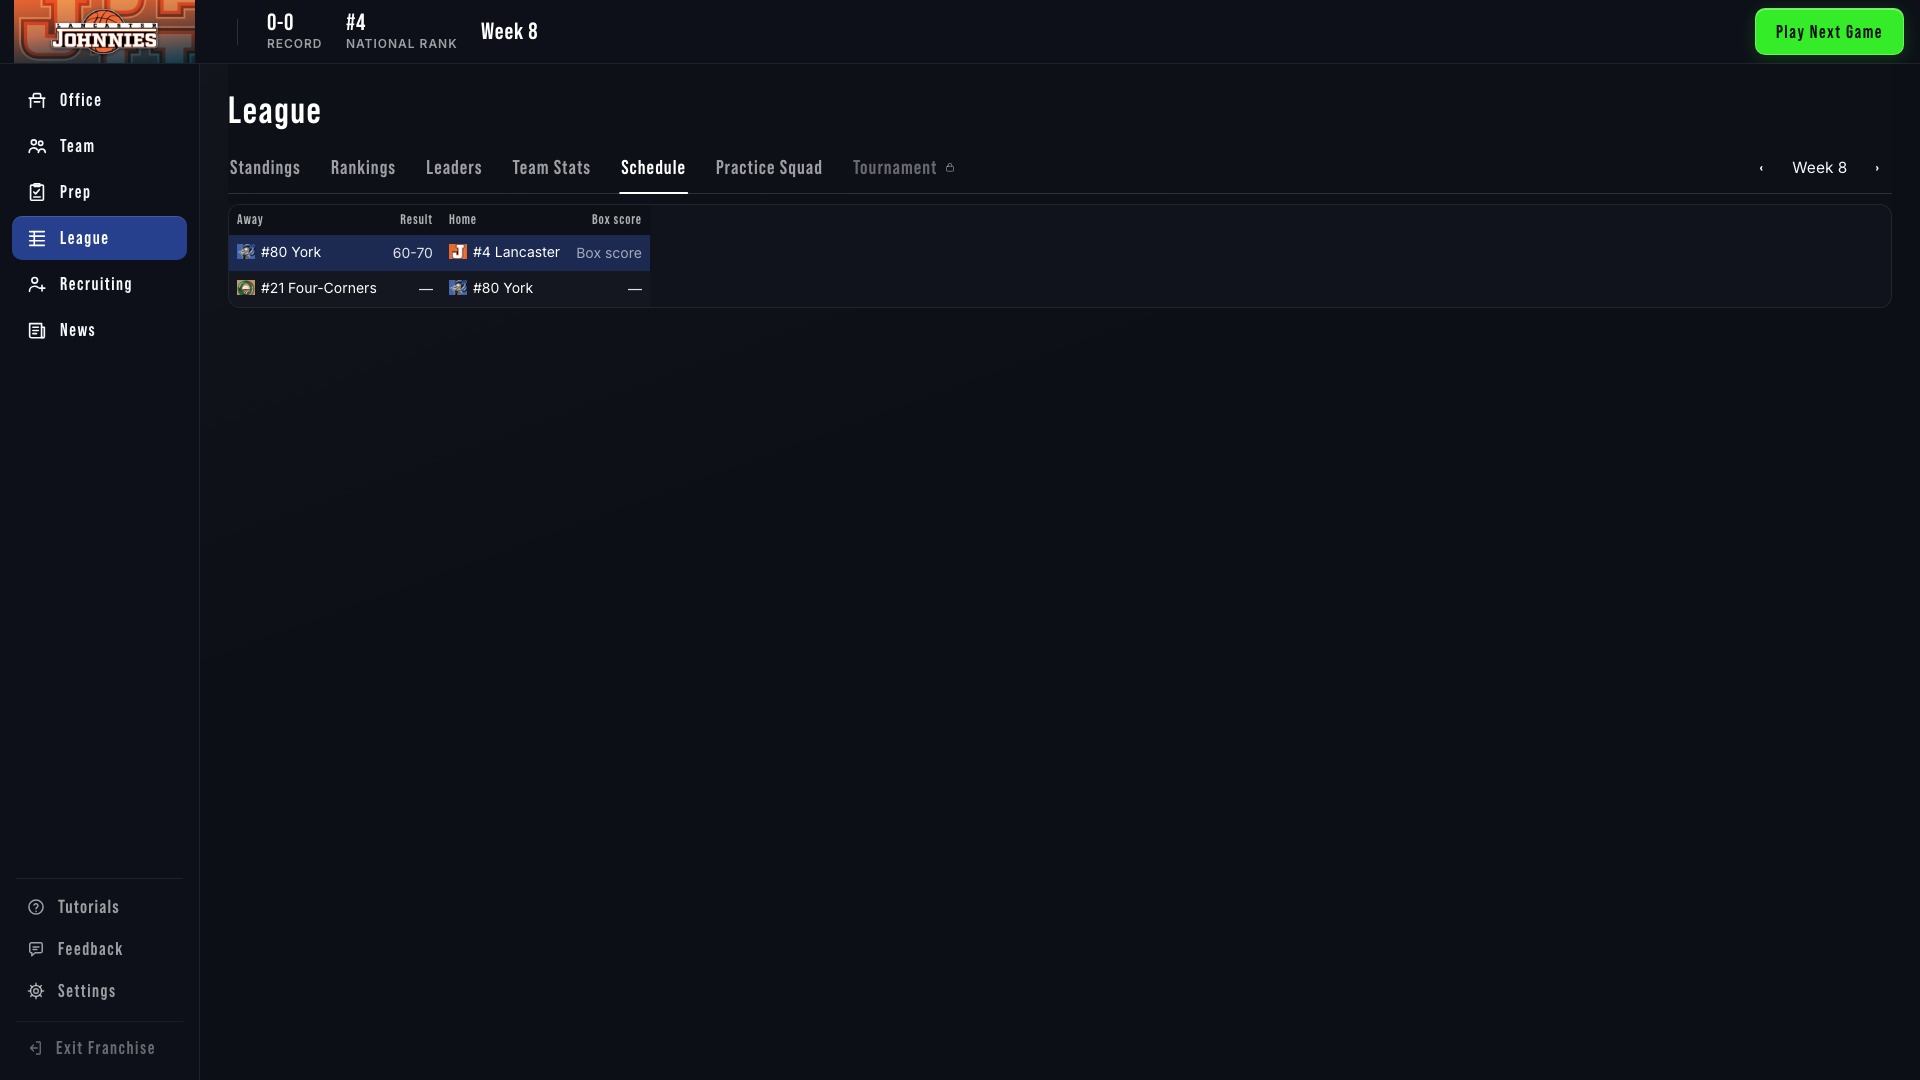
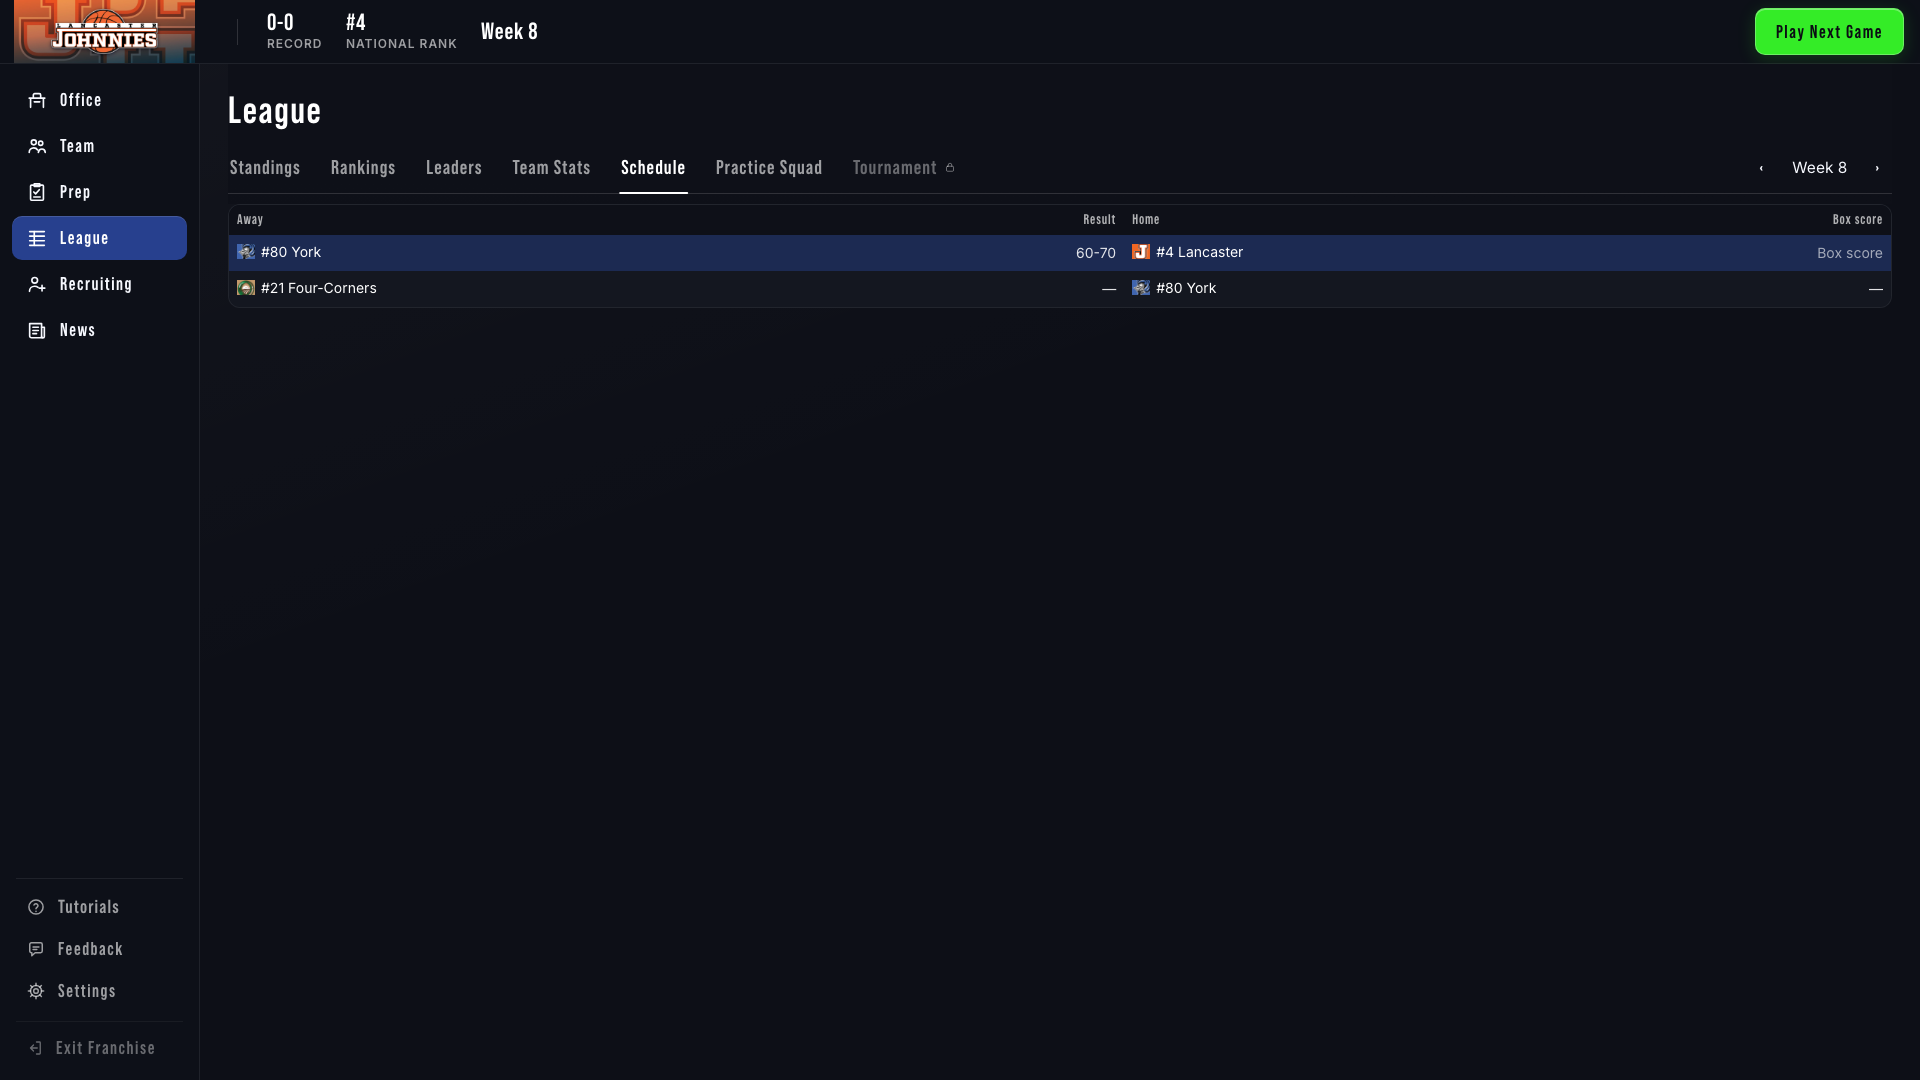
Read matchup ids from the document prefix, and let the schedule name columns fill the card.

Changed region(s): [[0.2188, 0.1833, 1.0, 0.275]]

diff --git a/FrontEnd/static/css/gob-tables.css b/FrontEnd/static/css/gob-tables.css
@@ -956,12 +956,10 @@ html.gob-shell .pg-tools .gob-wk-label {
   min-width: 72px;
   text-align: center;
 }
-/* Score line: Away · Result · Home · Box, sized to the names rather than the page. */
+/* Score line fills the card. Name columns take the spare width; the short columns stay tight. */
 #league-schedule-view.tab-content table.gob-sched,
 #team-schedule-view.tab-content table.gob-sched {
-  display: inline-table;
-  width: max-content;
-  max-width: 100%;
+  width: 100%;
 }
 #league-schedule-view .gob-sched th.team,
 #league-schedule-view .gob-sched td.team,
@@ -973,9 +971,9 @@ html.gob-shell .pg-tools .gob-wk-label {
 #team-schedule-view .gob-sched td.wk,
 #team-schedule-view .gob-sched th.site,
 #team-schedule-view .gob-sched td.site {
+  width: 1%;
   white-space: nowrap;
   text-align: left;
-  padding-right: 16px;
 }
 #league-schedule-view .gob-sched th.num,
 #league-schedule-view .gob-sched td.num,
@@ -985,6 +983,7 @@ html.gob-shell .pg-tools .gob-wk-label {
 #league-schedule-view .gob-sched td.box,
 #team-schedule-view .gob-sched th.box,
 #team-schedule-view .gob-sched td.box {
+  width: 1%;
   white-space: nowrap;
 }
 #league-schedule-view a.gob-box,

diff --git a/BackEnd/utils/schedule_browse.py b/BackEnd/utils/schedule_browse.py
@@ -33,6 +33,9 @@ _TOURNAMENT_LABELS = {
     34: "National Championship",
 }
 
+_SIDE_ID = re.compile(r'"(home_team_id|away_team_id)"\s*:\s*"([^"]+)"')
+_PREFIX_CHARS = 3200
+_ID_IN_CHUNK = 400
 _TEAM_OID = re.compile(r'"team_id"\s*:\s*\{\s*"\$oid"\s*:\s*"([0-9a-fA-F]{24})"\s*\}')
 _TEAM_STR = re.compile(r'"team_id"\s*:\s*"([0-9a-fA-F]{24})"')
 _RANK = re.compile(r'"natl_rank"\s*:\s*(-?\d+)')
@@ -60,6 +63,17 @@ def _as_int(value: Any) -> int | None:
         return int(value)
     except (TypeError, ValueError):
         return None
+
+
+def _decode_row_id(row_id: str) -> str:
+    if row_id.startswith("raw:"):
+        try:
+            return str(json.loads(row_id[4:]))
+        except (TypeError, ValueError, json.JSONDecodeError):
+            return row_id[4:].strip('"')
+    if row_id.startswith("oid:"):
+        return row_id[4:]
+    return row_id
 
 
 def _sql_rows(collection: Any, sql: str, params: tuple[Any, ...]) -> list[tuple] | None:
@@ -104,10 +118,11 @@ def _rank_map(franchise_id: str) -> dict[str, int | None]:
     return ranks
 
 
-def matchup_game_ids(franchise_id: str) -> dict[tuple[int, str, str], str]:
+def matchup_game_ids(franchise_id: str, stamp: tuple[Any, ...] | None = None) -> dict[tuple[int, str, str], str]:
     """(week, away id, home id) -> game id. Latest stamp only, per franchise."""
     key = str(franchise_id)
-    stamp = _light_stamp(key)
+    if stamp is None:
+        stamp = _light_stamp(key)
     cached = _GAME_IDS.get(key)
     if cached is not None and cached[0] == stamp:
         return cached[1]
@@ -177,18 +192,25 @@ def _read_game_ids(franchise_id: str) -> dict[tuple[int, str, str], str]:
             return text
         return by_canon.get(_canon(text), "")
 
-    fields = ["_id", "week", "away_team_id", "home_team_id", "team1_id", "team2_id"]
     games = db.games
-    found: dict[tuple[int, str, str], str] = {}
     from BackEnd.persistence.sqlite_collection import SqliteCollection
 
     if isinstance(games, SqliteCollection):
-        rows = games.projected_tuples({"franchise_id": franchise_id}, fields)
-        for game_id, week_raw, away_raw, home_raw, team1_raw, team2_raw in rows:
-            _store_matchup(found, resolve, week_raw, away_raw, home_raw, team1_raw, team2_raw, game_id)
-        return found
+        return _read_game_ids_sqlite(games, franchise_id, resolve)
+    return _read_game_ids_find(games, franchise_id, resolve)
 
-    for doc in games.find({"franchise_id": franchise_id}, {name: 1 for name in fields}):
+
+_GAME_ID_FIELDS = ["_id", "week", "away_team_id", "home_team_id", "team1_id", "team2_id"]
+
+
+def _apply_projected_rows(found: dict[tuple[int, str, str], str], resolve, rows: list[tuple]) -> None:
+    for game_id, week_raw, away_raw, home_raw, team1_raw, team2_raw in rows:
+        _store_matchup(found, resolve, week_raw, away_raw, home_raw, team1_raw, team2_raw, game_id)
+
+
+def _read_game_ids_find(games: Any, franchise_id: str, resolve) -> dict[tuple[int, str, str], str]:
+    found: dict[tuple[int, str, str], str] = {}
+    for doc in games.find({"franchise_id": franchise_id}, {name: 1 for name in _GAME_ID_FIELDS}):
         _store_matchup(
             found,
             resolve,
@@ -198,6 +220,76 @@ def _read_game_ids(franchise_id: str) -> dict[tuple[int, str, str], str]:
             doc.get("team1_id"),
             doc.get("team2_id"),
             doc.get("_id"),
+        )
+    return found
+
+
+def projected_game_ids(franchise_id: str) -> dict[tuple[int, str, str], str]:
+    """Every matchup via json_extract. The hybrid reader must match this."""
+    teams = list(db.teams.find({}, {"_id": 1, "name": 1, "team_id": 1}))
+    by_canon: dict[str, str] = {}
+    for team in teams:
+        oid = str(team.get("_id") or "")
+        if not oid:
+            continue
+        by_canon[_canon(team.get("name"))] = oid
+        slug = team.get("team_id")
+        if slug:
+            by_canon[_canon(slug)] = oid
+
+    def resolve(raw: str) -> str:
+        text = str(raw or "")
+        if _HEX_ID.match(text):
+            return text
+        return by_canon.get(_canon(text), "")
+
+    games = db.games
+    from BackEnd.persistence.sqlite_collection import SqliteCollection
+
+    if isinstance(games, SqliteCollection):
+        found: dict[tuple[int, str, str], str] = {}
+        _apply_projected_rows(
+            found,
+            resolve,
+            games.projected_tuples({"franchise_id": str(franchise_id)}, _GAME_ID_FIELDS),
+        )
+        return found
+    return _read_game_ids_find(games, str(franchise_id), resolve)
+
+
+def _read_game_ids_sqlite(games: Any, franchise_id: str, resolve) -> dict[tuple[int, str, str], str]:
+    """Prefix scan, then one projected read for documents the prefix did not finish."""
+    table = getattr(games, "name", "games")
+    rows = _sql_rows(
+        games,
+        f'SELECT g_week, id, substr(doc, 1, {_PREFIX_CHARS}) FROM "{table}" WHERE g_franchise_id = ?',
+        (franchise_id,),
+    )
+    found: dict[tuple[int, str, str], str] = {}
+    if rows is None:
+        _apply_projected_rows(
+            found,
+            resolve,
+            games.projected_tuples({"franchise_id": franchise_id}, _GAME_ID_FIELDS),
+        )
+        return found
+    missing: list[str] = []
+    for week_raw, row_id, prefix in rows:
+        sides: dict[str, str] = {}
+        for match in _SIDE_ID.finditer(prefix or ""):
+            sides.setdefault(match.group(1), match.group(2))
+        away = sides.get("away_team_id", "")
+        home = sides.get("home_team_id", "")
+        if away and home:
+            _store_matchup(found, resolve, week_raw, away, home, None, None, _decode_row_id(str(row_id)))
+            continue
+        missing.append(_decode_row_id(str(row_id)))
+    for start in range(0, len(missing), _ID_IN_CHUNK):
+        chunk = missing[start:start + _ID_IN_CHUNK]
+        _apply_projected_rows(
+            found,
+            resolve,
+            games.projected_tuples({"_id": {"$in": chunk}}, _GAME_ID_FIELDS),
         )
     return found
 
@@ -468,7 +560,7 @@ def _bundle(franchise_id: str, eos_builder: Callable[..., Any]) -> dict[str, Any
     franchise = _load_franchise(franchise_id)
     ranks = _rank_map(str(franchise_id))
     directory = _directory(franchise, ranks)
-    game_ids = matchup_game_ids(str(franchise_id))
+    game_ids = matchup_game_ids(str(franchise_id), stamp)
     conferences = {team_id: row.get("conference") for team_id, row in directory.items()}
     eos_schedule, _ids = eos_builder(franchise, conferences)
     user_id = _user_team_id(franchise)

diff --git a/tests/test_schedule_week.py b/tests/test_schedule_week.py
@@ -182,3 +182,33 @@ def test_week_advance_shows_the_new_box_score_without_clearing_the_cache():
     assert isinstance(browse._GAME_IDS[str(fid)][0], tuple)
     assert browse._GAME_IDS[str(fid)][0][0] == 9
     assert browse._GAME_IDS[str(fid)][0][3] == 2
+
+
+def test_ids_past_the_prefix_match_the_projected_read():
+    """A document whose side ids sit past the prefix must still match the full extract."""
+    from BackEnd.persistence.sqlite_collection import SqliteCollection
+    from BackEnd.utils import schedule_browse as browse
+
+    fid = seed()
+    inserted = db.games.insert_one({
+        "franchise_id": str(fid),
+        "week": 8,
+        "blob": "x" * (browse._PREFIX_CHARS + 800),
+        "away_team_id": "FOUR_CORNERS",
+        "home_team_id": "YORK",
+    }).inserted_id
+    if isinstance(db.games, SqliteCollection):
+        stored = db.games._conn.execute(
+            'SELECT doc FROM games WHERE g_franchise_id = ? AND length(doc) > ?',
+            (str(fid), browse._PREFIX_CHARS + 500),
+        ).fetchone()
+        assert stored is not None
+        text = stored[0]
+        assert text.find('"away_team_id"') > browse._PREFIX_CHARS
+        assert text.find('"home_team_id"') > browse._PREFIX_CHARS
+
+    clear_schedule_browse_cache()
+    hybrid = browse._read_game_ids(str(fid))
+    full = browse.projected_game_ids(str(fid))
+    assert hybrid == full
+    assert hybrid[(8, str(SISTER), str(OTHER))] == str(inserted)

diff --git a/_documentation_master/11_Design_Systems/UX_System.md b/_documentation_master/11_Design_Systems/UX_System.md
@@ -317,7 +317,7 @@ Career Leaders keep the older rule for FG% and DEF%: attempts at least 5 times t
 
 A view is a section of the franchise app that lives at `franchise-command-center.html?tab=<view-id>`. That is the same URL rule as today's in-page tabs. Rail clicks still push. Sub-tabs still replace. Back restores the view and the scroll position `GOBNav` already stores. There is no second URL scheme.
 
-The Office stays a panel already in the page. Roster, Player Stats, Team Attributes, Team Schedule, Standings, Rankings, Leaders, Team Stats, and League Schedule are module views. A module view is the same kind of panel, loaded the first time it opens and left mounted so the next open is instant. The old Roster and Team Measures panels remain in the page. `?tab=roster-tab` and `?tab=team-stats-tab` open the new views. An old Standings, Leaders, or Team Stats `?tab=` still opens the old panel. Team › Schedule reads `GET /franchise/team-detail`. League › Schedule reads `GET /franchise/schedule/week` (`@browse_cached`, one week). The whole-season national route stays for other callers. The next-game row on the team table is a neutral tint. Navy (`tr.me`) is only the user's game on the league week, the same mark the Office uses for the user's team. The league row reads Away, the score, Home, then a quiet Box score link. The team row is Week, Site, Opponent, Result, Box score. Both tables size to the names.
+The Office stays a panel already in the page. Roster, Player Stats, Team Attributes, Team Schedule, Standings, Rankings, Leaders, Team Stats, and League Schedule are module views. A module view is the same kind of panel, loaded the first time it opens and left mounted so the next open is instant. The old Roster and Team Measures panels remain in the page. `?tab=roster-tab` and `?tab=team-stats-tab` open the new views. An old Standings, Leaders, or Team Stats `?tab=` still opens the old panel. Team › Schedule reads `GET /franchise/team-detail`. League › Schedule reads `GET /franchise/schedule/week` (`@browse_cached`, one week). The whole-season national route stays for other callers. The next-game row on the team table is a neutral tint. Navy (`tr.me`) is only the user's game on the league week, the same mark the Office uses for the user's team. The league row reads Away, the score, Home, then a quiet Box score link. The team row is Week, Site, Opponent, Result, Box score. Both tables fill the card. The name columns take the spare width, and the short columns stay compact.
 
 ### Add a module view
 

diff --git a/reports/schedule-views-2026-09-27.md b/reports/schedule-views-2026-09-27.md
@@ -94,3 +94,22 @@ Retaken: `save-team`, `save-league`, `fixture-team`, and `fixture-league` at 128
 
 - `tests/test_schedule_week.py` and `tests/test_t3_detail.py`: 6 passed on mongomock, 6 passed on sqlite.
 - `schedule-views`, `subtabs`, `t1-tables`, `t3-detail`: 28 passed, 1 skipped.
+
+## Follow-up 2
+
+The full-document `json_extract` is no longer the game-id read. SQLite scans `substr(doc, 1, 3200)` and the side-id regex first. A document that does not have both `away_team_id` and `home_team_id` in that prefix is collected and read once, with `projected_tuples` and an `_id` `$in` list. The mongomock path is still the projected `find`. On the offline Lancaster save the prefix already holds both side ids for all 293 game documents, so the fallback does not run. The hybrid map and the full extract are the same 190 matchups. `test_ids_past_the_prefix_match_the_projected_read` puts one document's side ids past the prefix and asserts the two maps are equal, on mongomock and on sqlite.
+
+| Call | Full extract | Hybrid |
+|---|---|---|
+| Game-id read | 1,137 ms, then 516 ms (and 429 ms warm in this pass) | 102 ms once the blobs are in the process; the first touch of those blobs is the cold week |
+| Cold week 3 | 2,251 ms | 657 ms (64 games, 63 linked) |
+| Later weeks | 32 ms, 64 ms, then 4.5 ms and 7.4 ms | 10.6, 10.0, 9.8, 9.8 ms |
+
+Warm week changes stay under 150 ms. 657 ms is the same band as the original prefix cold open (397 ms and 644 ms), not the 2.25 s extract. Team-detail warm is 309 ms, the same as the call with the matchup map removed (307 ms). A process-cold team-detail is 930 ms against 544 ms without the map. The difference is that one prefix read of the game documents. It is not a second full extract.
+
+The schedule tables are `width: 100%` of the card again, the way Standings is. Away and Home share the spare width, left-aligned. Opponent takes the spare width on the team table, left-aligned. Week, Site, the score, Result, and Box score stay one content-width wide. At 1280 the league table is 1,178 px inside a 1,180 px card: Away 518, score 52, Home 535, Box score 72. The team table is Week 39, Site 33, Opponent 983, Result 64, Box score 59.
+
+Retaken: `save-team`, `save-league`, `fixture-team`, and `fixture-league` at 1280 and 1920.
+
+- `tests/test_schedule_week.py` and `tests/test_t3_detail.py`: 7 passed on mongomock, 7 passed on sqlite.
+- `schedule-views` and `t3-detail`: 18 passed, 1 skipped.
